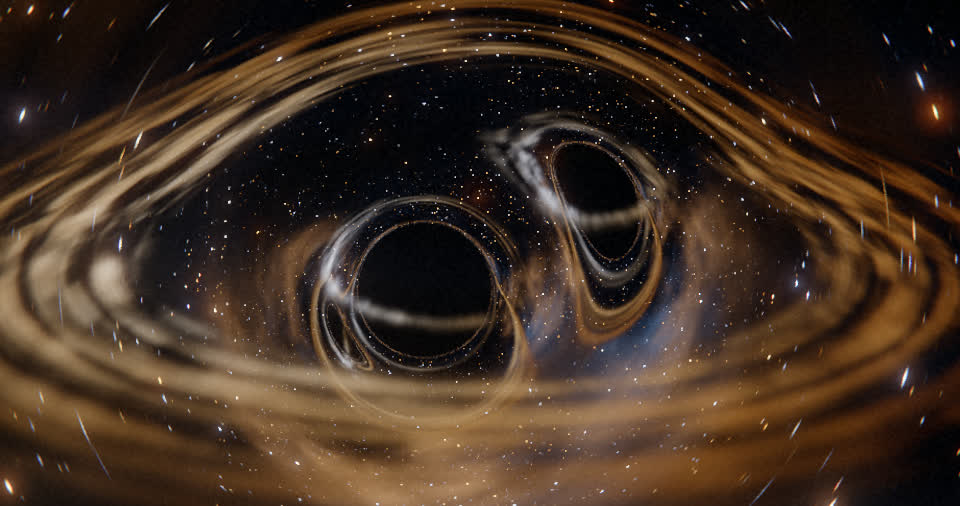
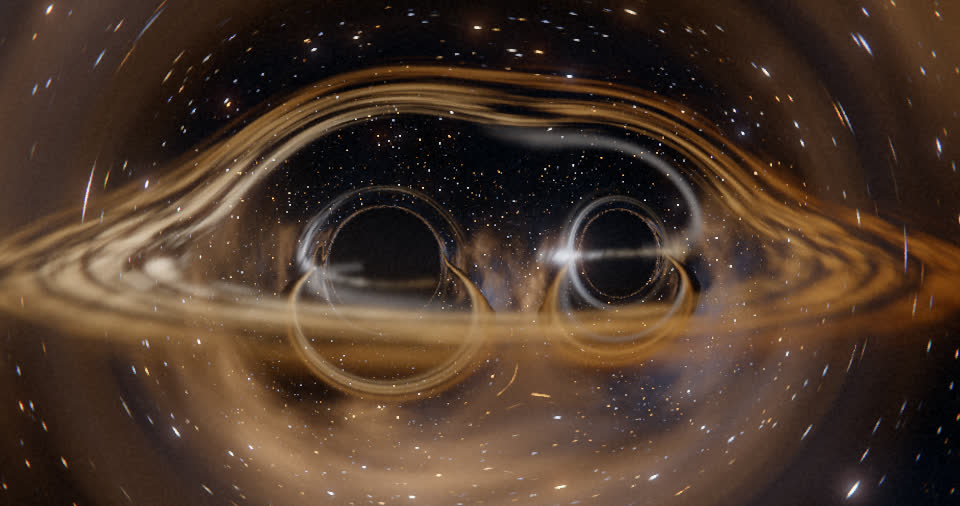
feat: tension pass: eyebrows, tidal heating, spiral wave, slow motion, roll

diff --git a/render/src/scene.rs b/render/src/scene.rs
@@ -24,12 +24,16 @@ pub const T_COALESCE: f32 = 48.0;
 pub const T_CUT: f32 = 58.5;
 /// Half-width of the fade, in seconds.
 pub const DISSOLVE: f32 = 1.0;
-/// Ejecta shell speed, scene units per loop second.
-pub const EJECTA_SPEED: f32 = 3.8;
+/// The last orbit plays in slow motion: loop time loses this much physical
+/// time across the window ending at coalescence.
+pub const SLOW_MOTION: f32 = 0.6;
+pub const SLOW_MOTION_START: f32 = 46.4;
 
 pub const RINGDOWN_AMPLITUDE: f32 = 3.0;
 pub const RINGDOWN_OMEGA: f32 = 4.6;
-pub const RINGDOWN_TAU: f32 = 2.6;
+/// Schwarzschild l=2 ringing has a quality factor near two: the remnant
+/// rings a couple of times and goes quiet.
+pub const RINGDOWN_TAU: f32 = 1.1;
 
 /// Visual speed of gravitational-wave ripples, scene units per loop second.
 pub const GW_SPEED: f32 = 13.0;
@@ -61,6 +65,8 @@ pub struct Camera {
     pub pos: [f32; 3],
     pub look_at: [f32; 3],
     pub up: [f32; 3],
+    /// Roll about the view axis, degrees. Positive tilts the horizon clockwise.
+    pub roll_deg: f32,
     pub fov_x_deg: f32,
     pub aperture: f32,
     pub focus_distance: f32,
@@ -80,18 +86,13 @@ pub struct Frame {
     pub camera: Camera,
     /// Merger flash, 0 except in the two seconds after coalescence.
     pub flash: f32,
-    pub ejecta: Ejecta,
+    /// Exposure multiplier for the grade: a dark overture that builds.
+    pub exposure: f32,
+    /// Phase of the two-armed spiral wave the binary drives in the big disk.
+    pub spiral_phase: f32,
+    /// Phase of the lopsided overdensity orbiting the cavity edge.
+    pub lump_phase: f32,
     pub merged: bool,
-}
-
-/// The shell of gas blown out by the merger.
-#[derive(Clone, Copy, Debug, PartialEq, Default)]
-pub struct Ejecta {
-    pub radius: f32,
-    pub brightness: f32,
-    pub width: f32,
-    /// Seconds since launch; drives the turbulence texture.
-    pub age: f32,
 }
 
 pub fn frame_time(frame: u32) -> f32 {
@@ -102,7 +103,14 @@ pub fn frame_time(frame: u32) -> f32 {
 /// opening is playing at negative physical time.
 pub fn physical_time(t: f32) -> f32 {
     let t = t.rem_euclid(LOOP_SECONDS);
-    if t < T_CUT { t } else { t - LOOP_SECONDS }
+    if t < T_CUT {
+        // Slow motion across the last orbit: physical time falls behind loop
+        // time by SLOW_MOTION, smoothly, so coalescence lands a little later.
+        let window_end = T_COALESCE + SLOW_MOTION;
+        t - SLOW_MOTION * smoothstep(SLOW_MOTION_START, window_end, t)
+    } else {
+        t - LOOP_SECONDS
+    }
 }
 
 /// Separation of the two bodies. Peters inspiral before coalescence, a damped
@@ -120,7 +128,7 @@ pub fn separation(tau: f32) -> f32 {
 /// the opening orbit takes about twelve seconds and capped so the final orbits
 /// stay readable.
 pub fn orbital_rate(d: f32) -> f32 {
-    const K: f32 = 30.0;
+    const K: f32 = 24.0;
     const MAX: f32 = 7.5;
     (K * d.abs().max(0.5).powf(-1.5)).min(MAX)
 }
@@ -183,18 +191,18 @@ pub fn shake(tau: f32) -> [f32; 3] {
     ]
 }
 
-/// Ejecta shell state at physical time `tau`.
-pub fn ejecta(tau: f32) -> Ejecta {
-    if tau < T_COALESCE {
-        return Ejecta::default();
-    }
-    let s = tau - T_COALESCE;
-    Ejecta {
-        radius: EJECTA_SPEED * s,
-        brightness: 0.6 * (-s / 1.4).exp() + 0.12,
-        width: 1.5 + 0.1 * EJECTA_SPEED * s,
-        age: s,
-    }
+/// Exposure arc: a dark overture, a build through the dance, the flash, then
+/// the calm and the fall.
+pub fn exposure(tau: f32) -> f32 {
+    let build = 0.72 + 0.28 * smoothstep(6.0, 34.0, tau) + 0.3 * smoothstep(38.0, 47.5, tau);
+    let settle = 1.0 - 0.3 * smoothstep(48.5, 53.0, tau);
+    let fall = 1.0 - 0.15 * smoothstep(55.0, 58.0, tau);
+    build * settle * fall
+}
+
+/// Angular rate of the cavity-edge overdensity: Keplerian at the cavity.
+pub fn lump_rate(cavity: f32) -> f32 {
+    orbital_rate(cavity)
 }
 
 /// Gravitational-wave strain amplitude at unit distance and phase, as a
@@ -243,25 +251,28 @@ pub fn gw_table() -> Vec<[f32; 4]> {
     rows
 }
 
-/// Catmull-Rom keyframes for the camera: (tau, distance, elevation deg, azimuth deg, fov deg).
-const CAMERA_KEYS: [[f32; 5]; 12] = [
-    [-6.0, 96.0, 9.5, -18.0, 34.0],
-    [0.0, 90.0, 9.0, 0.0, 34.0],
-    [14.0, 62.0, 8.0, 30.0, 36.0],
-    [28.0, 46.0, 7.0, 62.0, 38.0],
-    [40.0, 36.0, 8.0, 92.0, 40.0],
-    [46.0, 31.0, 12.0, 108.0, 42.0],
-    [48.5, 29.0, 15.0, 114.0, 42.0],
-    [52.0, 26.0, 26.0, 126.0, 40.0],
-    [56.0, 17.0, 32.0, 144.0, 40.0],
-    [57.5, 13.5, 35.0, 154.0, 40.0],
-    [58.5, 5.5, 36.0, 160.0, 40.0],
-    [61.0, 4.0, 36.0, 168.0, 40.0],
+/// Camera keyframes: (tau, distance, elevation deg, azimuth deg, fov deg, roll deg).
+/// Distances step down roughly geometrically so the approach eases in on its
+/// own; the plunge at the end is the one fast move.
+const CAMERA_KEYS: [[f32; 6]; 13] = [
+    [-6.0, 100.0, 8.0, -14.0, 32.0, 0.0],
+    [0.0, 94.0, 7.5, 0.0, 32.0, 0.0],
+    [8.0, 80.0, 7.0, 16.0, 33.0, 0.0],
+    [22.0, 58.0, 6.5, 44.0, 35.0, 0.0],
+    [34.0, 43.0, 6.5, 76.0, 37.0, 2.0],
+    [42.0, 34.0, 7.0, 102.0, 39.0, 5.0],
+    [46.5, 30.0, 9.0, 118.0, 41.0, 8.0],
+    [48.6, 28.0, 12.0, 125.0, 42.0, 9.0],
+    [52.0, 27.0, 20.0, 134.0, 40.0, 6.0],
+    [55.0, 22.0, 28.0, 144.0, 40.0, 2.0],
+    [57.5, 13.5, 33.0, 154.0, 40.0, -5.0],
+    [58.5, 5.5, 35.0, 160.0, 40.0, -10.0],
+    [61.0, 4.0, 35.0, 168.0, 40.0, -14.0],
 ];
 
 /// Cubic Hermite with finite-difference tangents in real time, so unevenly
 /// spaced keys do not overshoot.
-fn camera_key(tau: f32) -> [f32; 4] {
+fn camera_key(tau: f32) -> [f32; 5] {
     let n = CAMERA_KEYS.len();
     let tau = tau.clamp(CAMERA_KEYS[0][0], CAMERA_KEYS[n - 1][0]);
     let mut i = 0;
@@ -271,7 +282,7 @@ fn camera_key(tau: f32) -> [f32; 4] {
     let (k1, k2) = (CAMERA_KEYS[i], CAMERA_KEYS[i + 1]);
     let dt = k2[0] - k1[0];
     let s = ((tau - k1[0]) / dt).clamp(0.0, 1.0);
-    let slope = |a: [f32; 5], b: [f32; 5], j: usize| (b[j] - a[j]) / (b[0] - a[0]);
+    let slope = |a: [f32; 6], b: [f32; 6], j: usize| (b[j] - a[j]) / (b[0] - a[0]);
     // Fritsch-Carlson limiting: flat where the slope changes sign, and never
     // more than three times the gentler neighbour.
     let tangent = |idx: usize, j: usize| {
@@ -300,7 +311,7 @@ fn camera_key(tau: f32) -> [f32; 4] {
         -2.0 * s * s * s + 3.0 * s * s,
         s * s * s - s * s,
     );
-    let mut out = [0.0; 4];
+    let mut out = [0.0; 5];
     for (j, o) in out.iter_mut().enumerate() {
         let (m1, m2) = (tangent(i, j + 1) * dt, tangent(i + 1, j + 1) * dt);
         *o = h00 * k1[j + 1] + h10 * m1 + h01 * k2[j + 1] + h11 * m2;
@@ -308,19 +319,32 @@ fn camera_key(tau: f32) -> [f32; 4] {
     out
 }
 
+/// Organic drift, a few slow sines. Scaled with distance so it stays a
+/// fraction of a degree on screen, and grows a little as the dance tightens.
+pub fn sway(tau: f32, dist: f32) -> [f32; 3] {
+    let a = 0.012 * dist * (1.0 + 0.6 * smoothstep(30.0, 47.0, tau));
+    [
+        a * ((0.37 * tau + 1.0).sin() + 0.5 * (0.91 * tau).sin()),
+        a * 0.6 * ((0.29 * tau).sin() + 0.5 * (0.73 * tau + 2.0).sin()),
+        a * ((0.41 * tau + 2.0).sin() + 0.5 * (0.83 * tau + 1.0).sin()),
+    ]
+}
+
 pub fn camera(tau: f32) -> Camera {
-    let [dist, elev, azim, fov] = camera_key(tau);
+    let [dist, elev, azim, fov, roll] = camera_key(tau);
     let (el, az) = (elev.to_radians(), azim.to_radians());
     let jolt = shake(tau);
+    let drift = sway(tau, dist);
     let pos = [
-        dist * el.cos() * az.sin() + jolt[0],
-        dist * el.sin() + jolt[1],
-        dist * el.cos() * az.cos() + jolt[2],
+        dist * el.cos() * az.sin() + jolt[0] + drift[0],
+        dist * el.sin() + jolt[1] + drift[1],
+        dist * el.cos() * az.cos() + jolt[2] + drift[2],
     ];
     Camera {
         pos,
         look_at: [0.0, 0.4, 0.0],
         up: [0.0, 1.0, 0.0],
+        roll_deg: roll,
         fov_x_deg: fov,
         aperture: 0.0,
         focus_distance: dist,
@@ -371,6 +395,9 @@ pub fn frame_at(t: f32, tau: f32) -> Frame {
         let tidal = 0.36 * d.abs();
         let disk_outer = tidal.max(disk_inner * 1.25);
         let strip = smoothstep(3.0, 6.0, d.abs());
+        // Tidal heating: the closer the pair, the harder the disks are stirred.
+        let squeeze = (1.0 - d.abs() / D0).clamp(0.0, 1.0);
+        let heat = 1.0 + 1.5 * squeeze * squeeze;
         bodies[i] = Body {
             pos: [offsets[i] * dir[0], 0.0, offsets[i] * dir[2]],
             vel: [speed * tangent[0], 0.0, speed * tangent[2]],
@@ -378,8 +405,8 @@ pub fn frame_at(t: f32, tau: f32) -> Frame {
             rs,
             disk_inner,
             disk_outer,
-            disk_gain: if merged { 0.0 } else { 0.45 * strip },
-            disk_temp: 6800.0,
+            disk_gain: if merged { 0.0 } else { 0.45 * strip * heat },
+            disk_temp: 6800.0 + 1800.0 * squeeze,
             disk_normal: [
                 tilts[i].sin() * dir[2],
                 tilts[i].cos(),
@@ -394,8 +421,10 @@ pub fn frame_at(t: f32, tau: f32) -> Frame {
         let grow = smoothstep(0.0, 8.0, s);
         bodies[0].disk_inner = 3.0 * 2.0 * (1.0 - MERGER_LOSS);
         bodies[0].disk_outer = bodies[0].disk_inner * (1.3 + 1.7 * grow);
-        bodies[0].disk_gain = 0.5 * smoothstep(0.0, 2.5, s);
-        bodies[0].disk_temp = 6200.0;
+        // Shocked disk gas flashes white-hot and cools back to amber.
+        let f = flash(tau);
+        bodies[0].disk_gain = 0.5 * smoothstep(0.0, 2.5, s) + 2.5 * f;
+        bodies[0].disk_temp = 6200.0 + 2800.0 * f;
         bodies[0].disk_normal = [0.0, 1.0, 0.0];
         bodies[0].vel = [0.0; 3];
         bodies[1].vel = [0.0; 3];
@@ -417,7 +446,9 @@ pub fn frame_at(t: f32, tau: f32) -> Frame {
         circumbinary_gain: 1.2,
         camera: camera(tau),
         flash: flash(tau),
-        ejecta: ejecta(tau),
+        exposure: exposure(tau),
+        spiral_phase: phi,
+        lump_phase: lump_rate(circumbinary_inner) * tau,
         merged,
     }
 }
@@ -439,12 +470,29 @@ mod tests {
     }
 
     #[test]
-    fn ejecta_exists_only_after_the_merger() {
-        assert_eq!(ejecta(20.0), Ejecta::default());
-        assert_eq!(ejecta(-1.0), Ejecta::default());
-        let e = ejecta(T_COALESCE + 5.0);
-        assert!((e.radius - 5.0 * EJECTA_SPEED).abs() < 1e-4);
-        assert!(e.brightness > 0.12);
+    fn slow_motion_holds_the_last_orbit() {
+        // Physical time never runs backwards and never below half speed.
+        let mut prev = physical_time(0.0);
+        for n in 1..(T_CUT * FPS) as u32 {
+            let tau = physical_time(n as f32 / FPS);
+            let rate = (tau - prev) * FPS;
+            assert!(rate > 0.35 && rate <= 1.001, "frame {n} rate {rate}");
+            prev = tau;
+        }
+        // Coalescence lands later in loop time than in physical time.
+        assert!(physical_time(T_COALESCE + SLOW_MOTION) - T_COALESCE < 1e-3);
+        assert!(physical_time(T_COALESCE) < T_COALESCE);
+    }
+
+    #[test]
+    fn exposure_arc_builds_to_the_merger() {
+        assert!(exposure(0.0) < exposure(30.0));
+        assert!(exposure(30.0) < exposure(47.5));
+        assert!(exposure(52.0) < exposure(47.5));
+        for t in 0..60 {
+            let e = exposure(t as f32);
+            assert!(e > 0.5 && e < 1.5);
+        }
     }
 
     #[test]

diff --git a/render/src/gpu.rs b/render/src/gpu.rs
@@ -132,7 +132,7 @@ struct TraceParams {
     sky: [f32; 4],
     gw: [f32; 4],
     gw2: [f32; 4],
-    ejecta: [f32; 4],
+    spiral: [f32; 4],
     bodies: [GpuBody; 2],
 }
 
@@ -178,7 +178,15 @@ fn v4(v: [f32; 3], w: f32) -> [f32; 4] {
 fn trace_params(frame: &Frame, q: &Quality) -> TraceParams {
     let cam = &frame.camera;
     let fwd = normalize(sub(cam.look_at, cam.pos));
-    let right = normalize(cross(fwd, cam.up));
+    let right0 = normalize(cross(fwd, cam.up));
+    let up0 = cross(right0, fwd);
+    // Roll about the view axis.
+    let (sr, cr) = cam.roll_deg.to_radians().sin_cos();
+    let right = normalize([
+        right0[0] * cr + up0[0] * sr,
+        right0[1] * cr + up0[1] * sr,
+        right0[2] * cr + up0[2] * sr,
+    ]);
     let up = cross(right, fwd);
     let tan_x = (cam.fov_x_deg.to_radians() * 0.5).tan();
     let tan_y = tan_x * q.height as f32 / q.width as f32;
@@ -221,12 +229,7 @@ fn trace_params(frame: &Frame, q: &Quality) -> TraceParams {
             frame.flash,
             if frame.merged { 0.0 } else { 1.0 },
         ],
-        ejecta: [
-            frame.ejecta.radius,
-            frame.ejecta.brightness,
-            frame.ejecta.width,
-            frame.ejecta.age,
-        ],
+        spiral: [frame.spiral_phase, 0.45, frame.lump_phase, 0.6],
         bodies,
     }
 }
@@ -526,6 +529,7 @@ impl Post {
         hdr: &Hdr,
         look: &Look,
         flash: f32,
+        exposure: f32,
         frame_index: u32,
     ) -> Result<Vec<f32>, String> {
         let (width, height) = (hdr.width, hdr.height);
@@ -690,7 +694,7 @@ impl Post {
             src_buf: 0,
             dst_buf: 4,
             mode: 2,
-            g: [look.exposure, 0.0, look.bloom, look.streak],
+            g: [look.exposure * exposure, 0.0, look.bloom, look.streak],
             h: [look.halation, look.aberration, look.vignette, look.grain],
             k: [look.distortion, look.saturation, flash, 0.0],
             levels: level_table,

diff --git a/render/src/main.rs b/render/src/main.rs
@@ -166,7 +166,7 @@ impl Session {
     }
 
     /// Trace loop time `t`. Inside the seam window both sides of the cut are
-    /// traced and mixed in linear light, hidden by the ejecta engulfing the camera.
+    /// traced and mixed in linear light: the fall into the remnant's shadow.
     fn trace(&mut self, t: f32, q: &Quality) -> Result<Hdr, String> {
         let k = scene::dissolve(t);
         if k <= 0.0 || k >= 1.0 {
@@ -206,6 +206,7 @@ impl Session {
             hdr,
             look,
             scene::flash(scene::physical_time(t)),
+            scene::exposure(scene::physical_time(t)),
             index,
         )
     }
